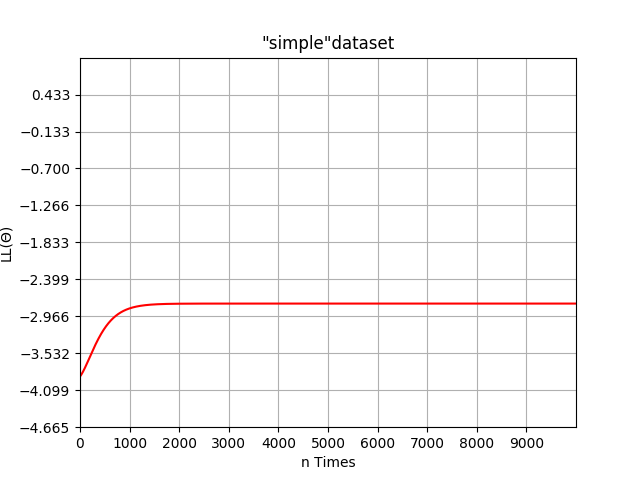
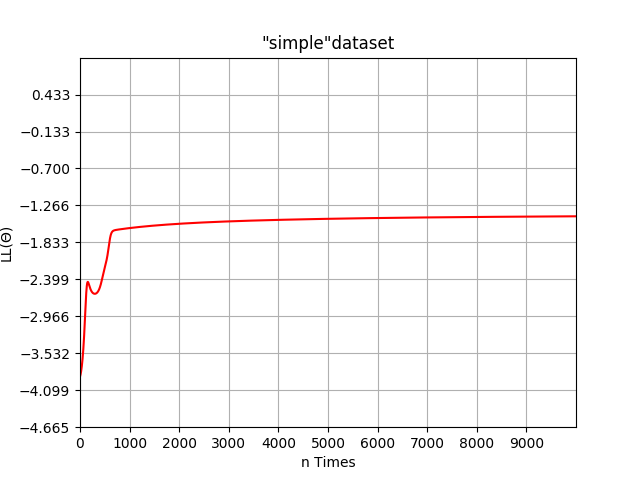
works, plots, but there is an error in the process of training somewhere.... tired of this

diff --git a/training/train.py b/training/train.py
@@ -3,12 +3,6 @@
     Ⓒ Artem Tkachuk
 '''
 
-#left:
-# TODO: (mx x mh) or (mh x mx)
-# TODO: reshaping: read about (2,) and (2, 1)
-#  or how to convert from 1 dim to ndim
-#TODO: get 3dim array and sum by 3rd axis
-
 import numpy as np
 import matplotlib; matplotlib.use("TkAgg")
 import matplotlib.pyplot as plt;  plt.ion()
@@ -22,37 +16,35 @@ def train(fn, nTimes, rate):
 
     fileName = f'data/train/{fn}-train.txt'
     data, n, mx = readFile(fileName)
-    mh = 2  # number of neurons in the hidden layer
-
+    mh = 7  # number of neurons in the hidden layer
 
     features = data[:, :-1]  # array of training examples
-    labels = data[:, -1]  # array of corresponding labels
-    labels = labels.reshape(labels.shape[0], 1)     #TODO remove
+    labels = data[:, -1][:, np.newaxis]  # array of corresponding labels
 
-    thetas_h = np.ones((mx, mh))   #parameters for input layer
-    thetas_y_hat = np.ones((mh,))  #parameters for hidden layer
+    thetas_h = np.ones((mh, mx))   #parameters for input layer
+    thetas_y_hat = np.ones((mh,1))  #parameters for hidden layer
 
-    gradient_h = np.zeros((mx, mh))
-    gradient_y_hat = np.zeros((mh,))
+    gradient_h = np.zeros((mh, mx))
+    gradient_y_hat = np.zeros((mh,1))
 
     fig, ax, xdata, ydata, line = init(fn)     #plotting the log likelihood while training
 
     for k in range(nTimes):
         #Forward Pass
-        h = expit(np.matmul(features, thetas_h))
+        h = expit(np.matmul(features, thetas_h.transpose()))
         y_hats = expit(np.matmul(h, thetas_y_hat))  #TODO reshape
         y_hats = y_hats.reshape(y_hats.shape[0], 1) #TODO remove
 
         # Backpropagation
         delta = labels - y_hats
-        gradient_y_hat = np.sum(delta * h, axis=0)
+        gradient_y_hat = np.sum(delta * h, axis=0, keepdims=True)
 
-        h * (1 - h) * thetas_y_hat.transpose()
-        features * delta
+        t = h * (1 - h) * thetas_y_hat.transpose()
+        s = features * delta
+        for i in range(n):
+            gradient_h += np.matmul(t[i][np.newaxis, :].transpose(), s[i][np.newaxis, :])
 
-        gradient_h = np.sum()
-
-        thetas_y_hat += rate * gradient_y_hat
+        thetas_y_hat += rate * gradient_y_hat.transpose()
         thetas_h += rate * gradient_h
 
         LL = logLikelihood(labels, y_hats)

diff --git a/components/neural.py b/components/neural.py
@@ -9,16 +9,16 @@ from testing.test import test
 def neural():
 
     datasets = [
-         {
-             'name': 'simple',
-             'nTimes': 10000,
-             'rate': 0.001
-         },
-        # {
-        #     'name': 'netflix',
-        #     'nTimes': 3000,
-        #     'rate': 0.0001
-        # },
+         # {
+         #     'name': 'simple',
+         #     'nTimes': 10000,
+         #     'rate': 0.001
+         # },
+        {
+            'name': 'netflix',
+            'nTimes': 500,
+            'rate': 0.0001
+        },
     ]
 
     for ds in datasets:

diff --git a/testing/test.py b/testing/test.py
@@ -19,8 +19,9 @@ def test(fn, thetas):
     values = np.unique(labels) # all possible values the labels have
 
     thetas_h, thetas_y_hat = thetas
-    h = expit(np.matmul(features, thetas_h))
-    y_hats = vdecider(expit(np.matmul(h, thetas_y_hat)))
+    print(thetas_h, thetas_y_hat)
+    h = expit(np.matmul(features, thetas_h.transpose()))
+    y_hats = expit(np.matmul(h, thetas_y_hat))
 
     guessed = np.zeros(len(values), dtype=int) #number of guesses for each value
     total = np.zeros(len(values), dtype=int)   #quantity of each value

diff --git a/data/sin.py b/data/sin.py
@@ -1,0 +1,21 @@
+import numpy as np
+from math import sin
+
+oftrain = open('train/sin.txt', 'w')
+oftest = open('test/sin.txt', 'w')
+
+test = 20000   #number
+train = 10000  #of points
+
+X = np.arange(train,step=0.01)
+Y = np.arange(train, test, step = 0.01)
+
+oftrain.write(f'1\n{train}\n')
+for x in X:
+    s = f'{x}: {sin(x)}\n'
+    oftrain.write(s)
+
+oftest.write(f'{train}\n{test}\n')
+for y in Y:
+    s = f'{y}: {sin(y)}\n'
+    oftest.write(s)
